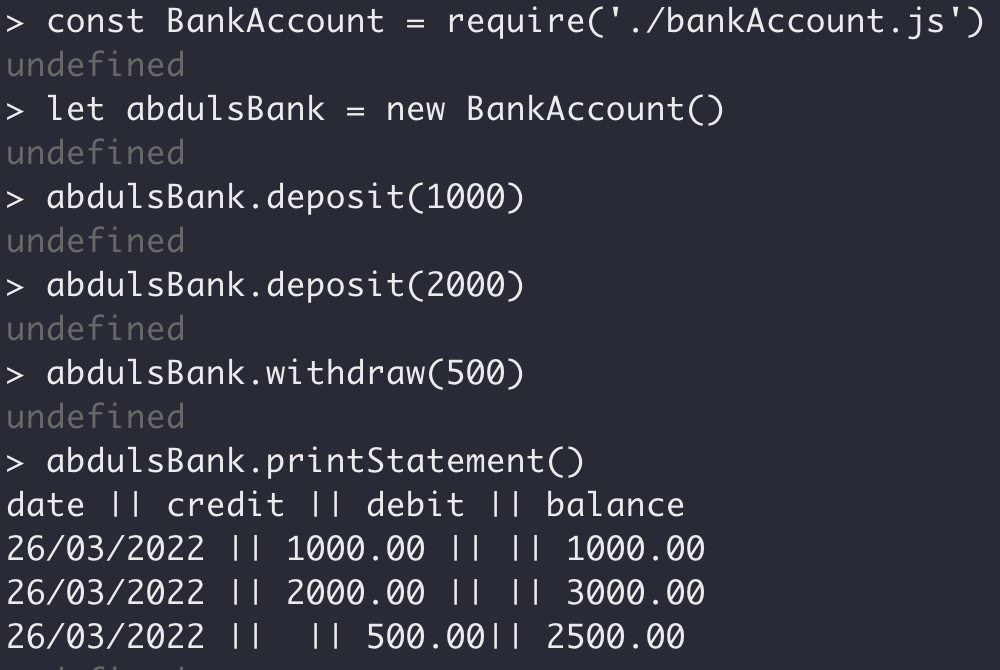
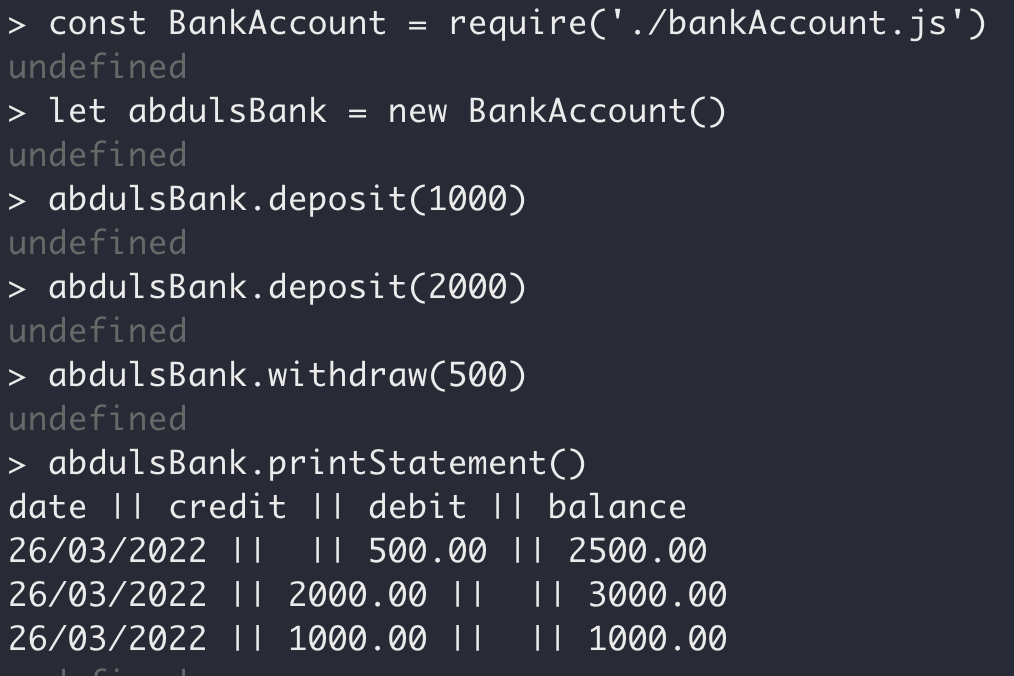
Transactions on statements are now shown by most recent first

diff --git a/spec/statement.spec.js b/spec/statement.spec.js
@@ -47,9 +47,9 @@ describe(Statement, () => {
   })
   describe('printStatement()', () => {
     let statement;
-
     beforeEach(() => {
       // lets create a new instance of a BankAccount for each test
+      jest.resetAllMocks();
       statement = new Statement();
     })
 
@@ -72,7 +72,7 @@ describe(Statement, () => {
 
       statement.logActivity(transaction, date);
       statement.printStatement();
-      expect(logSpy).toHaveBeenCalledWith('date || credit || debit || balance\n10/01/2022 || 1000.00 || || 1000.00')
+      expect(logSpy).toHaveBeenCalledWith('date || credit || debit || balance\n10/01/2022 || 1000.00 ||  || 1000.00')
     })
 
   })
@@ -95,9 +95,20 @@ describe(Statement, () => {
 
       statement.logActivity(transaction, date);
 
-      expect(statement.createStatement()).toEqual(['date || credit || debit || balance', '10/01/2022 || 1000.00 || || 1000.00'])
+      expect(statement.createStatement()).toEqual(['date || credit || debit || balance', '10/01/2022 || 1000.00 ||  || 1000.00'])
+    })
+
+    it('should generate an array with the most recent to the left', () => {
+      const transaction1 = {balance: 1000.00, credit: 1000.00, debit: ''}
+      const date1 = '10/01/2022'
+      const transaction2 = {balance: 600.00, credit: '', debit: 400}
+      const date2 = '15/01/2022'
+
+      statement.logActivity(transaction1, date1);
+      statement.logActivity(transaction2, date2);
+
+      expect(statement.createStatement()).toEqual(['date || credit || debit || balance','15/01/2022 ||  || 400.00 || 600.00', '10/01/2022 || 1000.00 ||  || 1000.00'])
     })
 
   })
-
 });

diff --git a/statement.js b/statement.js
@@ -8,18 +8,21 @@ class Statement {
   }
 
   createStatement() {
-    let array = ['date || credit || debit || balance']
+    const header = ['date || credit || debit || balance']
+    let body = []
 
     this.activityLog.forEach(transaction => {
       const balance = this.#formatMoney(transaction.balance)
       const credit = this.#formatMoney(transaction.credit)
       const debit = this.#formatMoney(transaction.debit)
 
-      const string = `${transaction.date} || ${credit} || ${debit}|| ${balance}`
-      array.push(string);
+      const string = `${transaction.date} || ${credit} || ${debit} || ${balance}`
+      body.push(string);
     })
 
-    return array
+    const organisedArray = header.concat(body.reverse())
+
+    return organisedArray
   }
 
   printStatement() {

diff --git a/README.md b/README.md
@@ -175,3 +175,6 @@ Do the same for the withdraw method
 Finally add print functionality to your BankAccount class which forwards to the statement classes print method
   - Ensure you mock the dependency
 
+Final touch ups:
+  - we forgot about the order in which the transactions should appear most recent at the top, I have done it the wrong way round. To fix this I will add another test to expect a particular order
+
